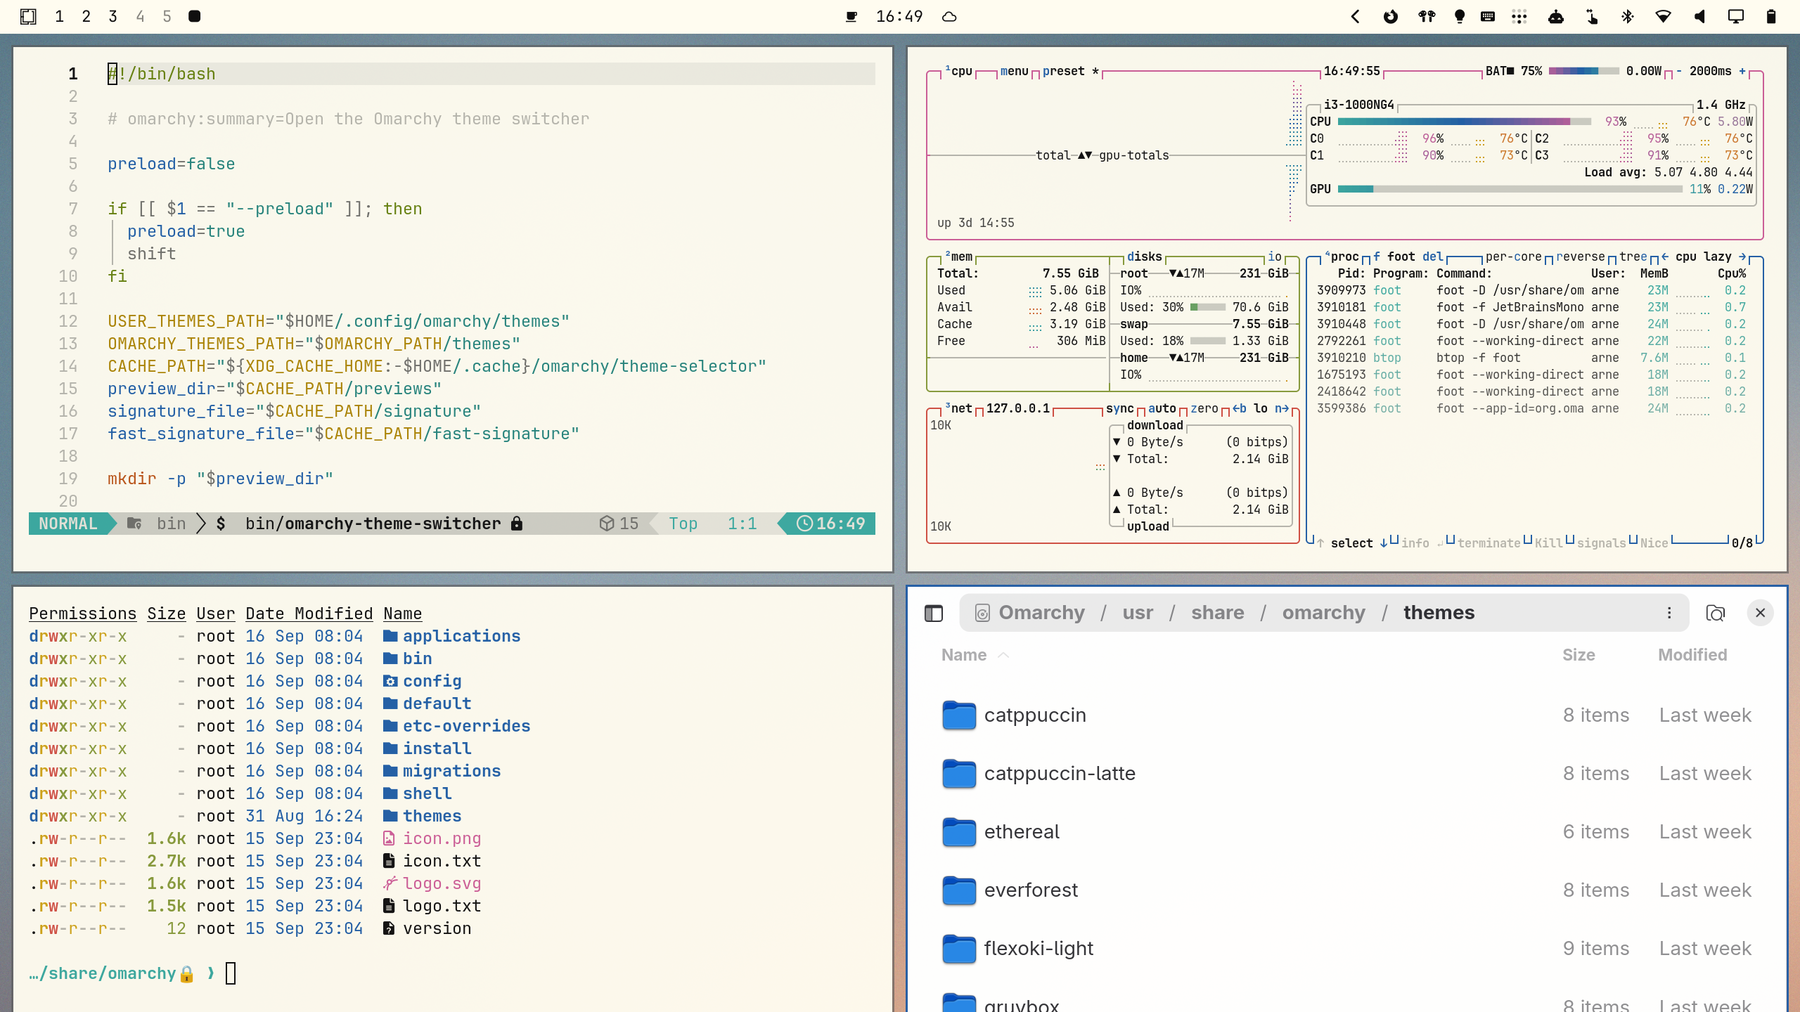
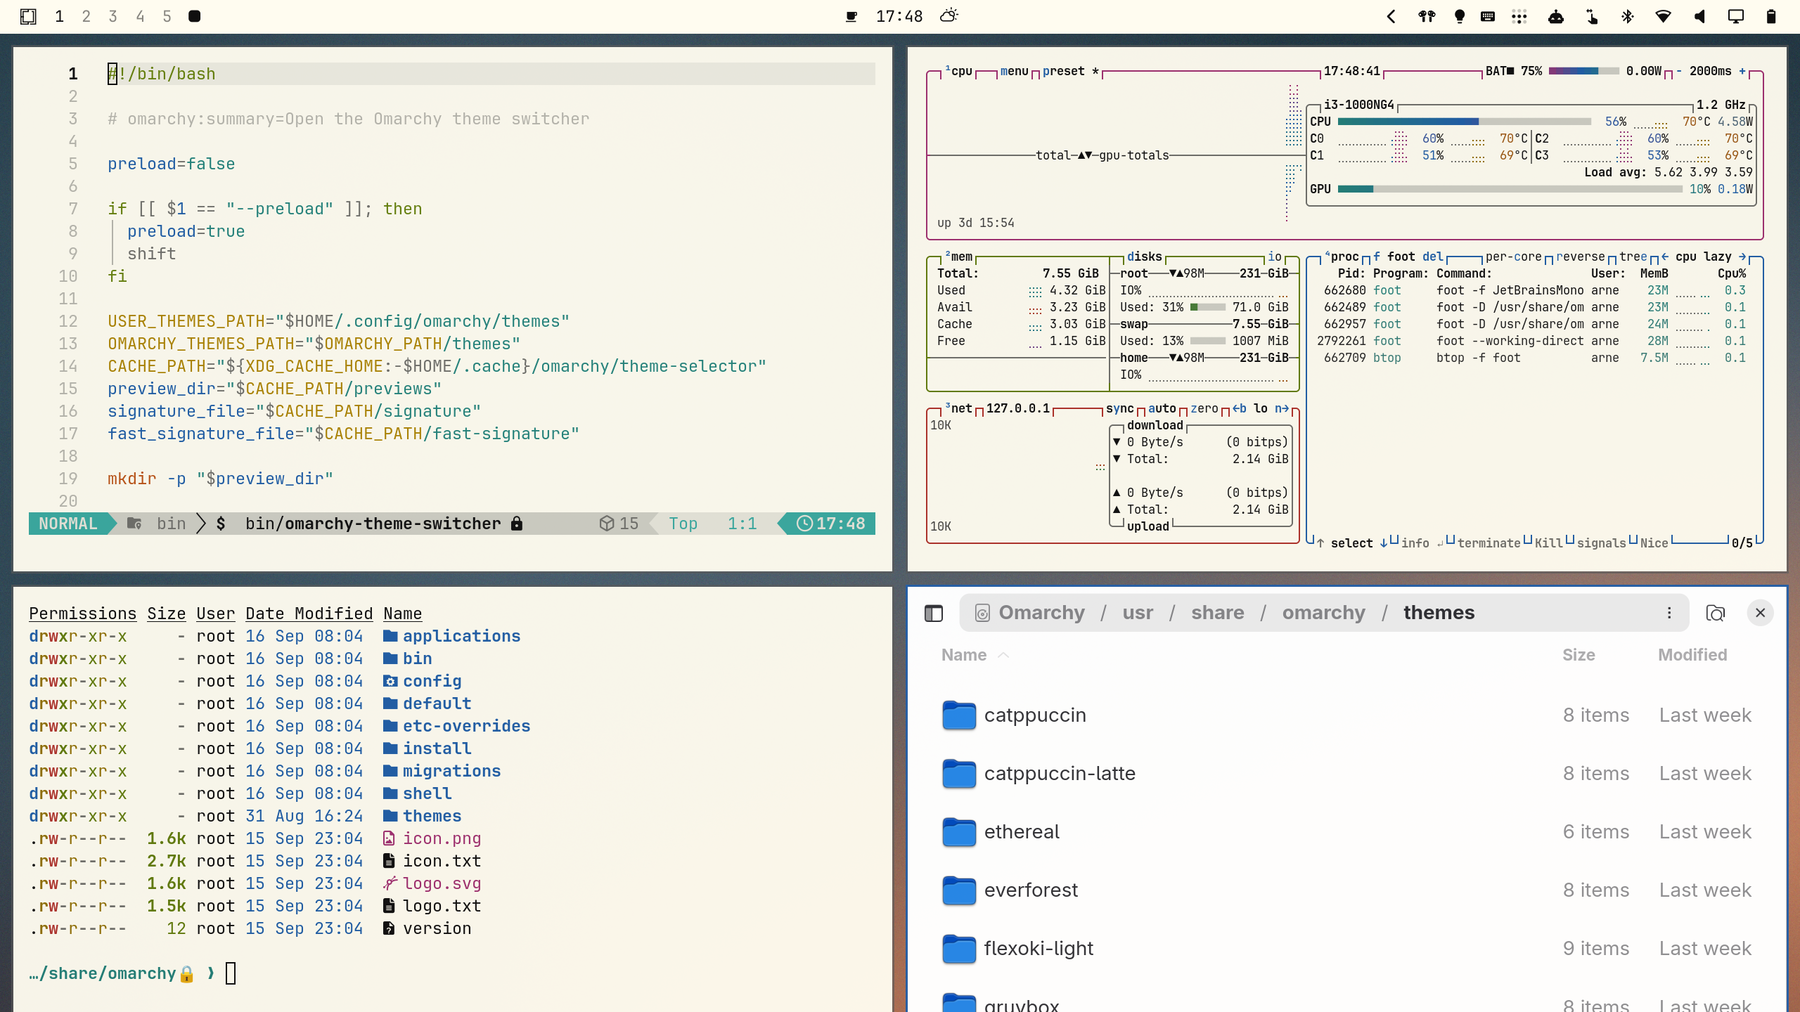
Deepen text colors so every palette color meets WCAG AA
Flexoki Light's 400 tones fell as low as 2.3:1 on the paper background
(yellow, cyan, green, muted). Use Flexoki's 600 tones, nudged darker
where needed, so all colors reach at least 4.6:1.

diff --git a/README.md b/README.md
@@ -7,7 +7,7 @@
 ## Why Superlight
 
 - **Paper, not glare.** A warm off-white base (`#FFFCF0`) with near-black ink text keeps things crisp without the harshness of pure white.
-- **A proven palette.** Flexoki was designed for reading and writing: its inky blue, red, green and gold stay distinct and legible in the terminal, the editor and the bar.
+- **A proven palette, tuned for contrast.** Built on Flexoki, which was designed for reading and writing. The text colors use Flexoki's deeper 600 tones (yellow, green and cyan a touch deeper still), so every palette color reaches at least **4.6 : 1** against the background (WCAG AA asks for 4.5 : 1) and body text sits at **18.6 : 1**.
 - **A wallpaper that breathes.** The soft blue-to-peach gradient gives the desktop depth while staying quiet behind your windows.
 - **Clean gradients, made from scratch.** The wallpapers are generated procedurally in 3840×2400 by [`wallpaper/generate.sh`](wallpaper/generate.sh), with fine film grain as dithering, so the gradient shows no banding.
 - **Two wallpapers included.** The light daytime sky is the default; the deeper dusk version from Superdark is one `omarchy theme bg next` away.
